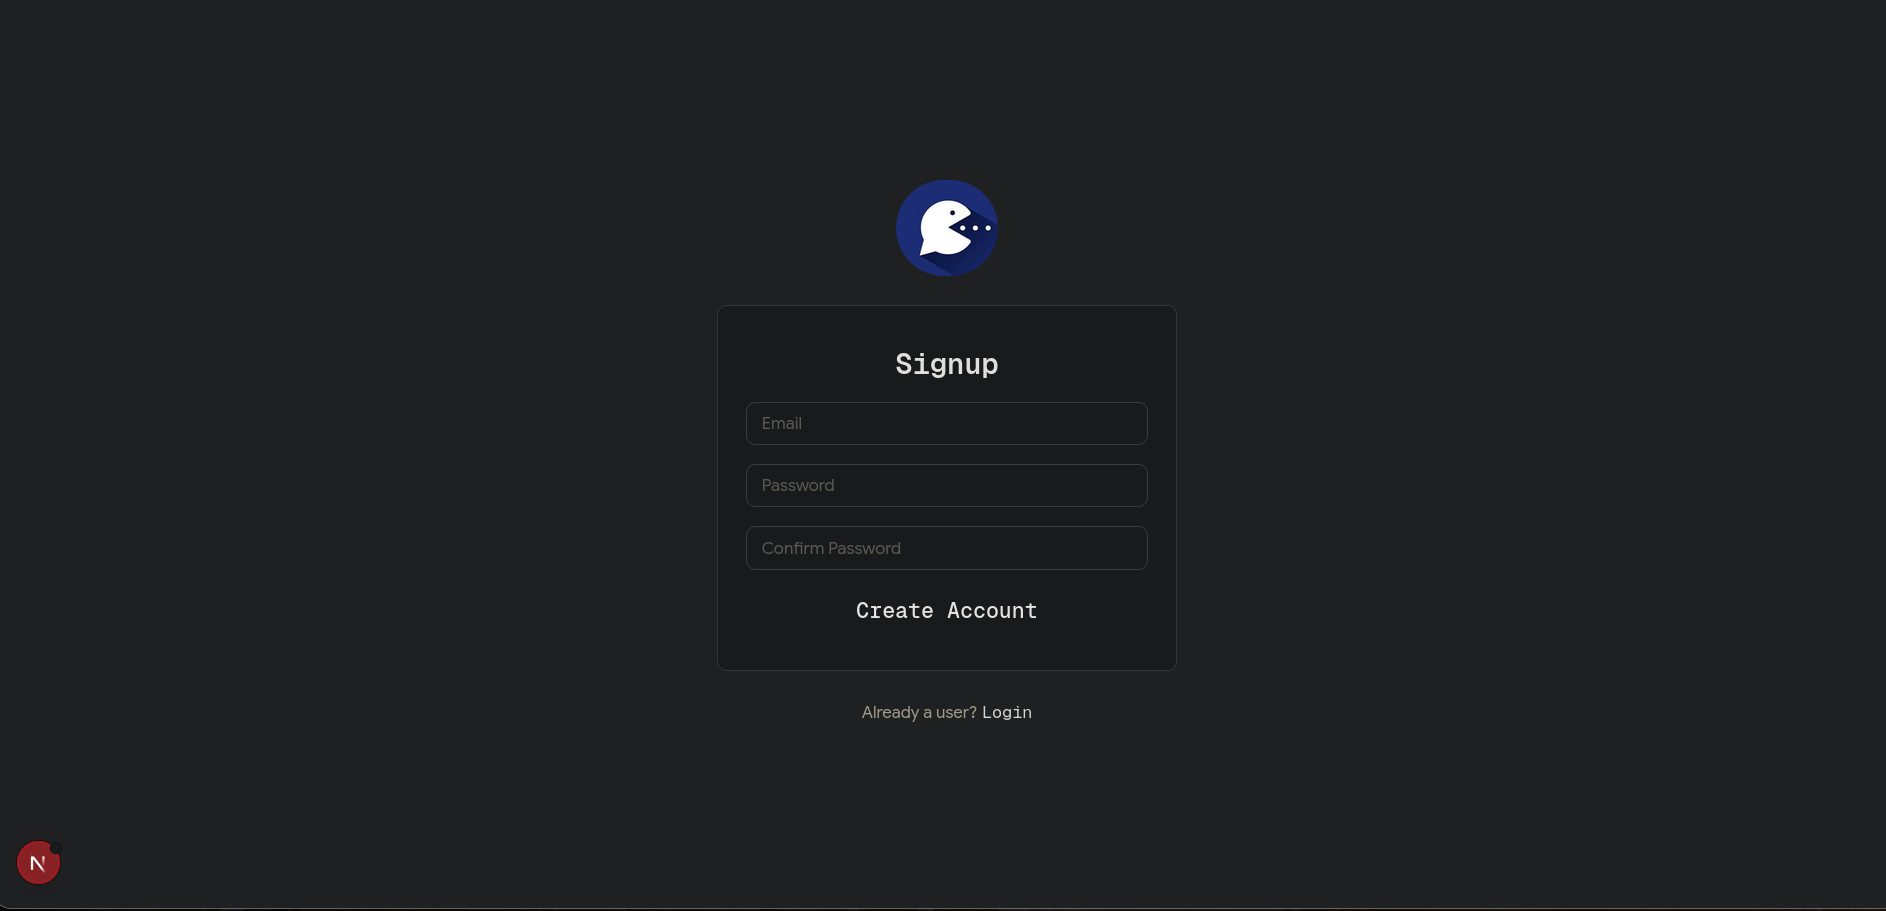
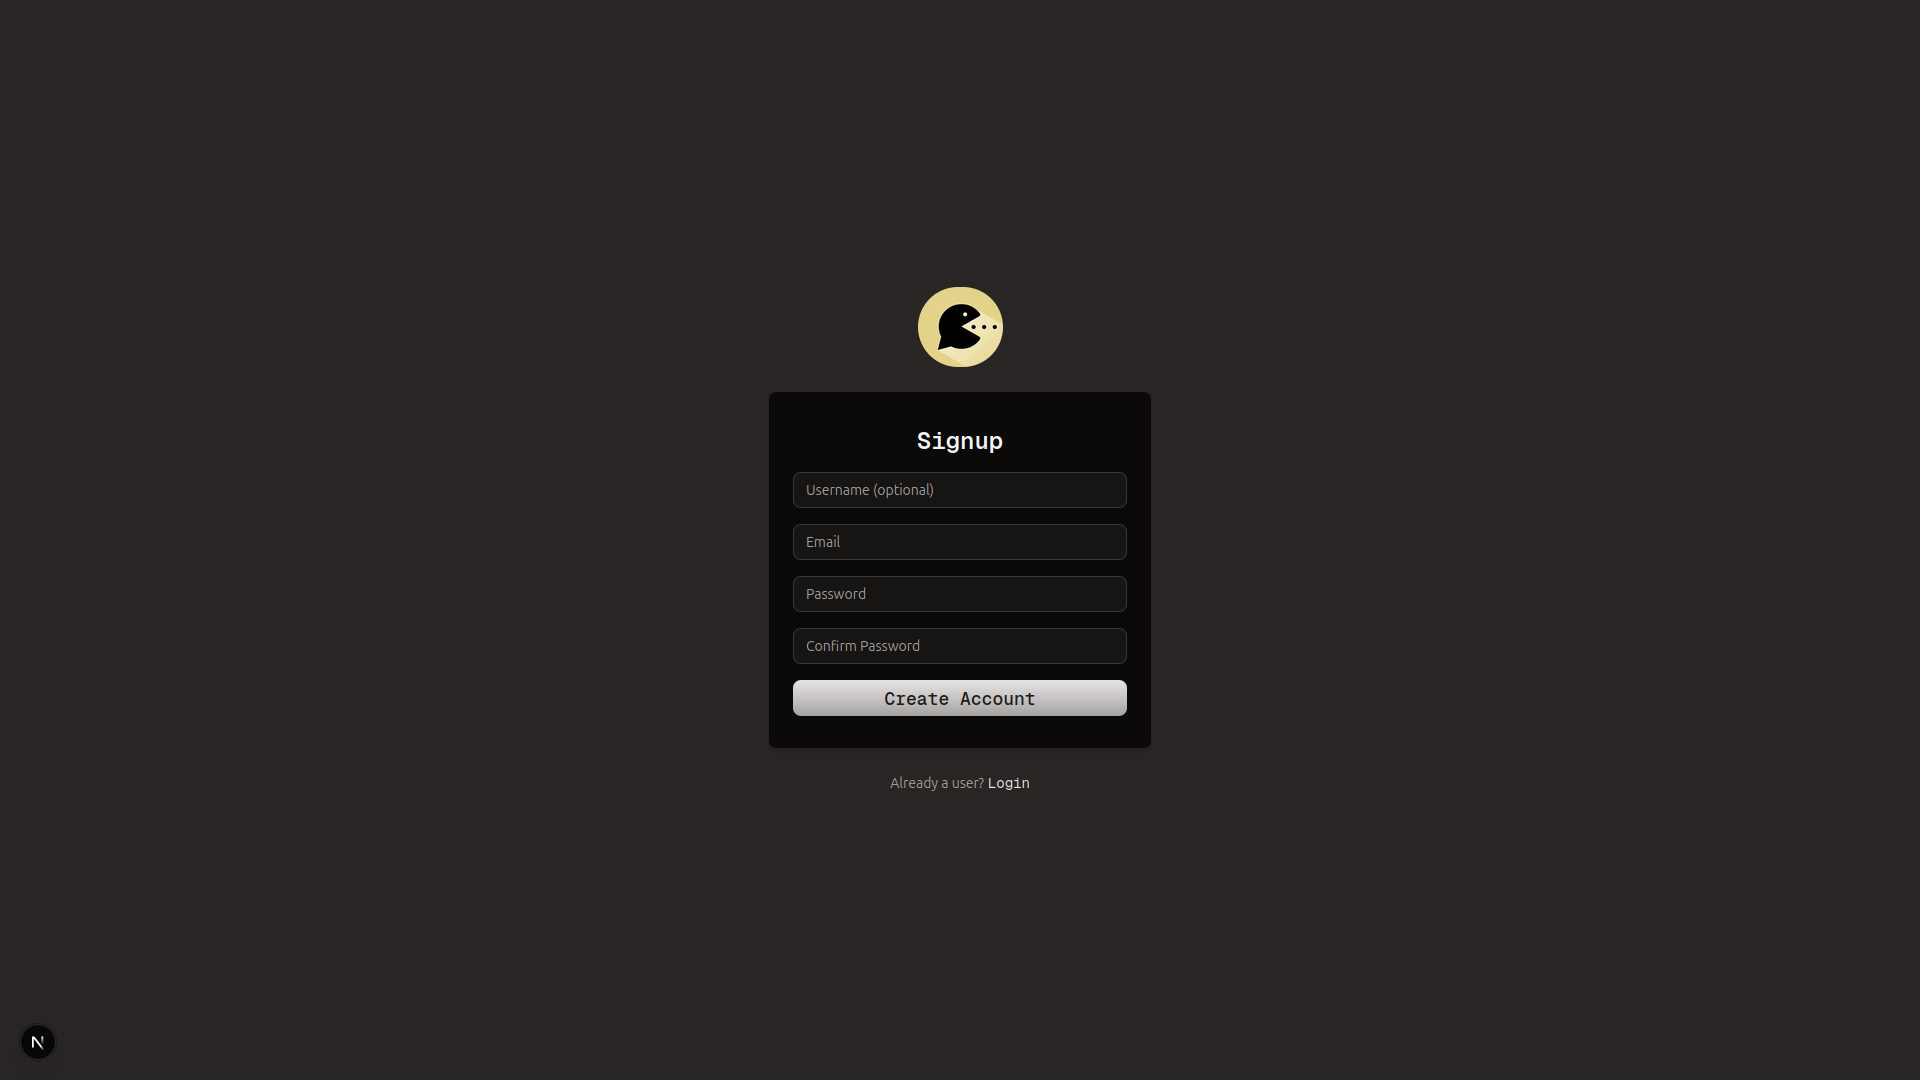
update README screenshots

diff --git a/README.md b/README.md
@@ -58,28 +58,26 @@
 <div align="center">
   <table>
     <tr>
-      <td><img src="public/screenshots/landing.png" alt="Landing Page (Dark)" width="400" /></td>
-      <td><img src="public/screenshots/landing1.png" alt="Landing Page (Light)" width="400" /></td>
+      <td><img src="public/screenshots/landing.png" alt="Landing Page" width="400" /></td>
+      <td><img src="public/screenshots/signup.png" alt="Signup Page" width="400" /></td>
     </tr>
     <tr>
-      <td align="center"><em>Landing Page — Dark Mode</em></td>
-      <td align="center"><em>Landing Page — Light Mode</em></td>
-    </tr>
-    <tr>
-      <td><img src="public/screenshots/login.png" alt="Login (Dark)" width="400" /></td>
-      <td><img src="public/screenshots/signup.png" alt="Signup (Dark)" width="400" /></td>
-    </tr>
-    <tr>
-      <td align="center"><em>Login</em></td>
+      <td align="center"><em>Landing Page</em></td>
       <td align="center"><em>Signup</em></td>
     </tr>
     <tr>
-      <td><img src="public/screenshots/chat.png" alt="Chat Dashboard (Dark)" width="400" /></td>
-      <td><img src="public/screenshots/chat1.png" alt="Chat Dashboard (Light)" width="400" /></td>
+      <td><img src="public/screenshots/home.png" alt="Home Page" width="400" /></td>
+      <td><img src="public/screenshots/chat.png" alt="Chat Dashboard" width="400" /></td>
     </tr>
     <tr>
-      <td align="center"><em>Chat Dashboard — Dark Mode</em></td>
-      <td align="center"><em>Chat Dashboard — Light Mode</em></td>
+      <td align="center"><em>Home / Dashboard</em></td>
+      <td align="center"><em>Chat Dashboard</em></td>
+    </tr>
+    <tr>
+      <td><img src="public/screenshots/room.png" alt="Chat Room" width="800" colspan="2" /></td>
+    </tr>
+    <tr>
+      <td align="center" colspan="2"><em>Group Chat Room</em></td>
     </tr>
   </table>
 </div>